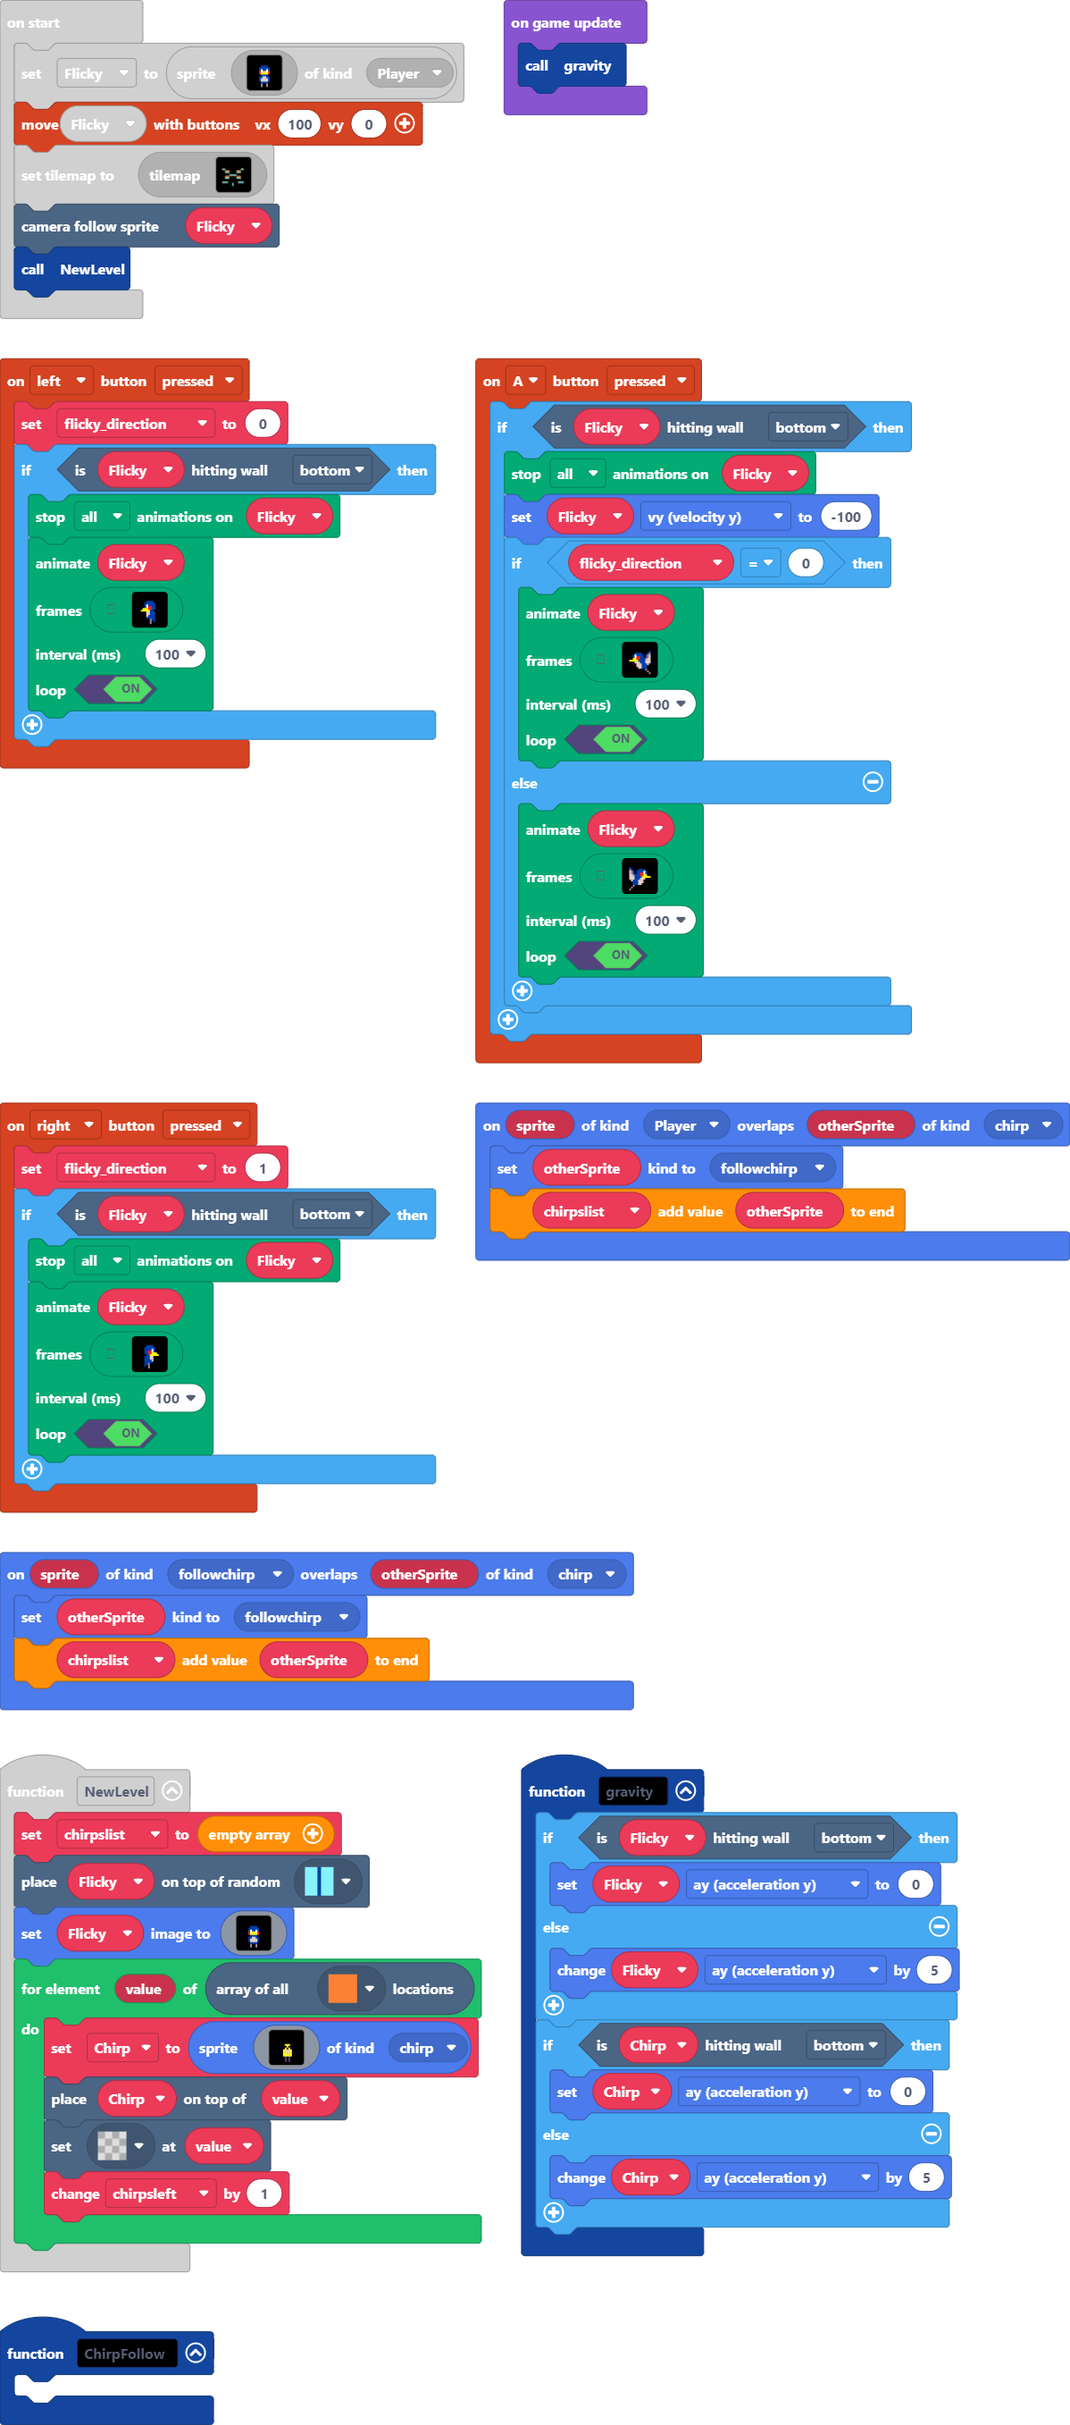
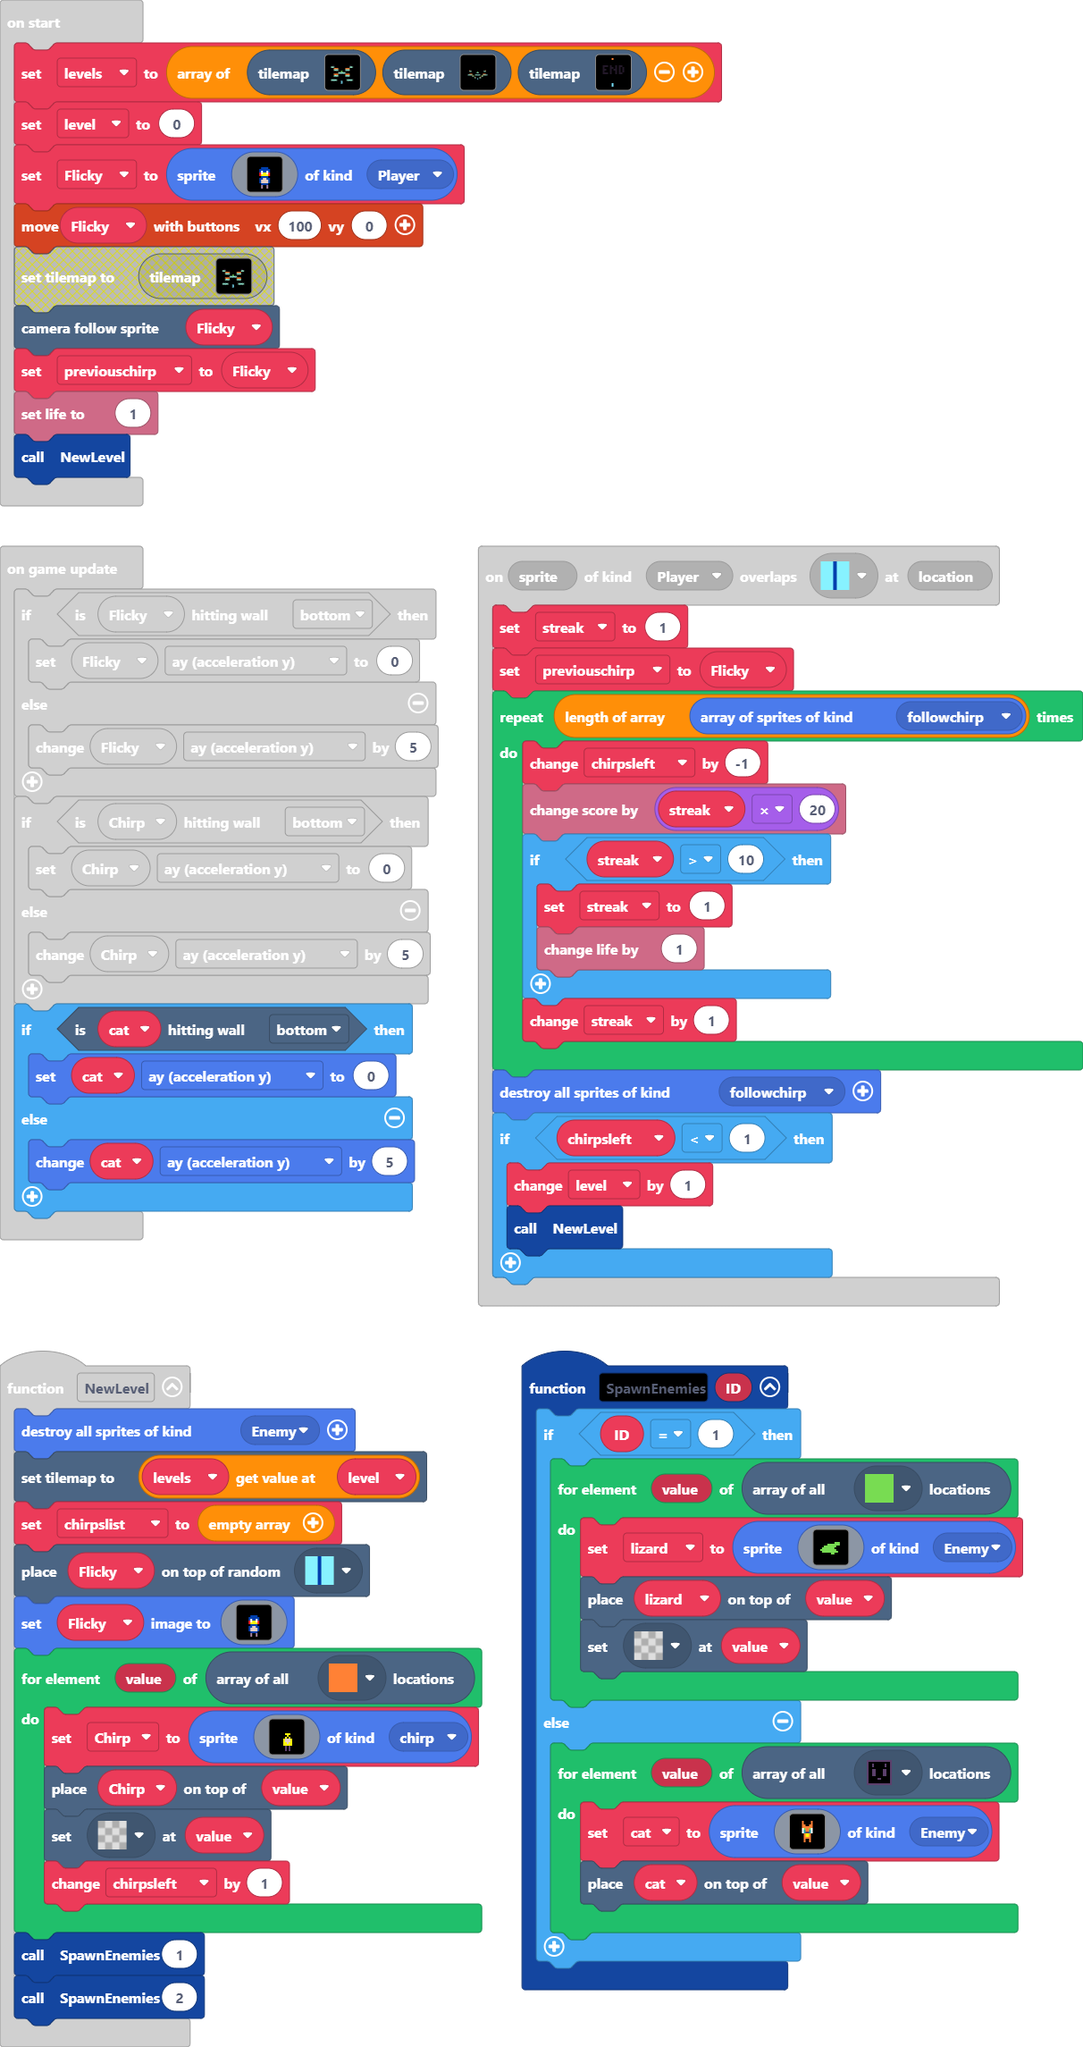
enemy spawns

diff --git a/tilemap.g.ts b/tilemap.g.ts
@@ -14,6 +14,8 @@ namespace myTiles {
     export const tile5 = image.ofBuffer(hex``);
     //% fixedInstance jres blockIdentity=images._tile
     export const tile6 = image.ofBuffer(hex``);
+    //% fixedInstance jres blockIdentity=images._tile
+    export const tile7 = image.ofBuffer(hex``);
 
     helpers._registerFactory("tilemap", function(name: string) {
         switch(helpers.stringTrim(name)) {
@@ -36,8 +38,107 @@ namespace myTiles {
 . . . . . . . . . . . . . . . . 
 . . . . . . . . . . . . . . . . 
 `, [myTiles.transparency16], TileScale.Sixteen);
+            case "level4":
+            case "level4":return tiles.createTilemap(hex`1000100000000000000000000000000000000000000000000000000000000000000000000000000000000000000000000000000000000000000000000000000000000000000000000000000000000000000000000000000000000000000000000000000000000000000000000000000000000000000000000000000000000000000000000000000000000000000000000000000000000000000000000000000000000000000000000000000000000000000000000000000000000000000000000000000000000000000000000000000000000000000000000000000000000000000000000000000000000000000000000000000000000000000000000000000000000000`, img`
+. . . . . . . . . . . . . . . . 
+. . . . . . . . . . . . . . . . 
+. . . . . . . . . . . . . . . . 
+. . . . . . . . . . . . . . . . 
+. . . . . . . . . . . . . . . . 
+. . . . . . . . . . . . . . . . 
+. . . . . . . . . . . . . . . . 
+. . . . . . . . . . . . . . . . 
+. . . . . . . . . . . . . . . . 
+. . . . . . . . . . . . . . . . 
+. . . . . . . . . . . . . . . . 
+. . . . . . . . . . . . . . . . 
+. . . . . . . . . . . . . . . . 
+. . . . . . . . . . . . . . . . 
+. . . . . . . . . . . . . . . . 
+. . . . . . . . . . . . . . . . 
+`, [myTiles.transparency16], TileScale.Sixteen);
+            case "level5":
+            case "level5":return tiles.createTilemap(hex`1000100000000000000000000000000000000000000000000000000000000000000000000000000000000000000000000000000000000000000000000000000000000000000000000000000000000000000000000000000000000000000000000000000000000000000000000000000000000000000000000000000000000000000000000000000000000000000000000000000000000000000000000000000000000000000000000000000000000000000000000000000000000000000000000000000000000000000000000000000000000000000000000000000000000000000000000000000000000000000000000000000000000000000000000000000000000000`, img`
+. . . . . . . . . . . . . . . . 
+. . . . . . . . . . . . . . . . 
+. . . . . . . . . . . . . . . . 
+. . . . . . . . . . . . . . . . 
+. . . . . . . . . . . . . . . . 
+. . . . . . . . . . . . . . . . 
+. . . . . . . . . . . . . . . . 
+. . . . . . . . . . . . . . . . 
+. . . . . . . . . . . . . . . . 
+. . . . . . . . . . . . . . . . 
+. . . . . . . . . . . . . . . . 
+. . . . . . . . . . . . . . . . 
+. . . . . . . . . . . . . . . . 
+. . . . . . . . . . . . . . . . 
+. . . . . . . . . . . . . . . . 
+. . . . . . . . . . . . . . . . 
+`, [myTiles.transparency16], TileScale.Sixteen);
+            case "level6":
+            case "level6":return tiles.createTilemap(hex`1000100000000000000000000000000000000000000000000000000000000000000000000000000000000000000000000000000000000000000000000000000000000000000000000000000000000000000000000000000000000000000000000000000000000000000000000000000000000000000000000000000000000000000000000000000000000000000000000000000000000000000000000000000000000000000000000000000000000000000000000000000000000000000000000000000000000000000000000000000000000000000000000000000000000000000000000000000000000000000000000000000000000000000000000000000000000000`, img`
+. . . . . . . . . . . . . . . . 
+. . . . . . . . . . . . . . . . 
+. . . . . . . . . . . . . . . . 
+. . . . . . . . . . . . . . . . 
+. . . . . . . . . . . . . . . . 
+. . . . . . . . . . . . . . . . 
+. . . . . . . . . . . . . . . . 
+. . . . . . . . . . . . . . . . 
+. . . . . . . . . . . . . . . . 
+. . . . . . . . . . . . . . . . 
+. . . . . . . . . . . . . . . . 
+. . . . . . . . . . . . . . . . 
+. . . . . . . . . . . . . . . . 
+. . . . . . . . . . . . . . . . 
+. . . . . . . . . . . . . . . . 
+. . . . . . . . . . . . . . . . 
+`, [myTiles.transparency16], TileScale.Sixteen);
+            case "level3":
+            case "level3":return tiles.createTilemap(hex`280014000000000000000000000000000000000000000000000000000000000000000000000000000000000000000000000000000000000000000000000000000000000000000000000000000000000000000000000000000000000000000000000000000000000000000000000000000000000000000000000000000000000000000000000000000000000000000000000000000000000000000000000000000000000000000000000000000000000000000000000000000000000000000000000000000000000000000000000000000000000000000000000000000000000000000000000000000000000000000000000000000000000000000000000000000000000000000000000000000000000000000000000000000000000000000000000000000500060000000000000000000000000000000000060005000000000000000000000000000000000001020300000000000000000000000000000000000102030000000000000000000000000000000000000000000000000000000007000000000000000000000000000000000000000000000000000000000000000000000000000001020300000000000000000000000000000000000000000000000000000000000000000000000000000000000000000000000000000000000000000000000000000000000600050505050000000000000006000000000000000505050500060000000000000000000000000001020202020300000000010202020202030000000001020202020300000000000000000000000000000000000000050700000000000000000000000705000000000000000000000000000000000000000000000000000103000000000000000000000001030000000000000000000000000000000000000000000000000000000005000000000000000500000000000000000000000000000000000000000000000000000000000000010300000000000103000000000000000000000000000000000000000000000000000000000000000000000004000000000000000000000000000000000000000000000000000000000000000000000000000000040000000000000000000000000000000000000000`, img`
+........................................
+........................................
+........................................
+........................................
+........................................
+........................................
+........................................
+........................................
+........222.................222.........
+........................................
+..................222...................
+........................................
+........................................
+......222222....2222222....222222.......
+........................................
+............22...........22.............
+........................................
+...............22.....22................
+........................................
+........................................
+`, [myTiles.transparency16,myTiles.tile1,myTiles.tile2,myTiles.tile3,myTiles.tile4,myTiles.tile5,myTiles.tile6,myTiles.tile7], TileScale.Sixteen);
+            case "end":
+            case "level7":return tiles.createTilemap(hex`1000100000000000000000020000000000000000000000000000000000000000000000000000000000000000000000000000000000000000000000000000000000000000000003030300030000030003030000000000030000000303000300030003000000000303000003000303000300030000000003000000030000030003000300000000030303000300000300030300000000000000000000000000000000000000000000000000000000000000000000000000000000000000000000000000000000000000000000000000000000000000000000000000000000000000000000000000000000000001000000000000000000000000000000010000000000000000`, img`
+. . . . . . . . . . . . . . . . 
+. . . . . . . 2 . . . . . . . . 
+. . . . . . . . . . . . . . . . 
+. . . . . . . . . . . . . . . . 
+. . . . . . . . . . . . . . . . 
+. . . . . . . . . . . . . . . . 
+. . . . . . . . . . . . . . . . 
+. . . . . . . . . . . . . . . . 
+. . . . . . . . . . . . . . . . 
+. . . . . . . . . . . . . . . . 
+. . . . . . . . . . . . . . . . 
+. . . . . . . . . . . . . . . . 
+. . . . . . . . . . . . . . . . 
+. . . . . . . . . . . . . . . . 
+. . . . . . . . . . . . . . . . 
+. . . . . . . . . . . . . . . . 
+`, [myTiles.transparency16,myTiles.tile4,myTiles.tile5,myTiles.tile6], TileScale.Sixteen);
             case "level1":
-            case "level1":return tiles.createTilemap(hex`140010000000000000000000000000000000000000000000000000000000000000000000000000000000000000000000000000000000000000000000000000000000000600000000000000000000000600000000000001030000000000000000000000010300000000000000050505000000000005050500000000000000000001020300000000000102030000000000000000000000000000000000000000000000000000000000000000010202020300000000000000000000000005050500000000000505050000000000000000000102030000000000010203000000000000000000000000000000000000000000000000000000000000000000000000000000000000000000000001020203000000000000000102020300000000000000000000000004000000000000000000000000000000000000000400000000000000000000`, img`
+            case "level1":return tiles.createTilemap(hex`140010000000000000000000000000000000000000000000000000000000000000000000000000000000000000000000000000000000000000000000000000000000000600000000000000000000000600000000000001030000000000000000000000010300000000000000050505000000000005050500000000000000000001020300000000000102030000000000000000000000000000070000000000000000000000000000000000010202020300000000000000000000000005050500000000000505050000000000000000000102030000000000010203000000000000000000000000000000000000000000000000000000000000000000000000000000000000000000000001020203000000000000000102020300000000000000000000000004000000000000000000000000000000000000000400000000000000000000`, img`
 ....................
 ....................
 ....................
@@ -54,30 +155,26 @@ namespace myTiles {
 ..2222.......2222...
 ....................
 ....................
-`, [myTiles.transparency16,myTiles.tile1,myTiles.tile2,myTiles.tile3,myTiles.tile4,myTiles.tile5,myTiles.tile6], TileScale.Sixteen);
-            case "level3":
-            case "level3":return tiles.createTilemap(hex`280014000000000000000000000000000000000000000000000000000000000000000000000000000000000000000000000000000000000000000000000000000000000000000000000000000000000000000000000000000000000000000000000000000000000000000000000000000000000000000000000000000000000000000000000000000000000000000000000000000000000000000000000000000000000000000000000000000000000000000000000000000000000000000000000000000000000000000000000000000000000000000000000000000000000000000000000000000000000000000000000000000000000000000000000000000000000000000000000000000000000000000000000000000000000000000000000000000500060000000000000000000000000000000000060005000000000000000000000000000000000001020300000000000000000000000000000000000102030000000000000000000000000000000000000000000000000000000000000000000000000000000000000000000000000000000000000000000000000000000000000001020300000000000000000000000000000000000000000000000000000000000000000000000000000000000000000000000000000000000000000000000000000000000600050505050000000000000006000000000000000505050500060000000000000000000000000001020202020300000000010202020202030000000001020202020300000000000000000000000000000000000000050000000000000000000000000005000000000000000000000000000000000000000000000000000103000000000000000000000001030000000000000000000000000000000000000000000000000000000005000000000000000500000000000000000000000000000000000000000000000000000000000000010300000000000103000000000000000000000000000000000000000000000000000000000000000000000004000000000000000000000000000000000000000000000000000000000000000000000000000000040000000000000000000000000000000000000000`, img`
-........................................
-........................................
-........................................
-........................................
-........................................
-........................................
-........................................
-........................................
-........................................
-........................................
-........................................
-........................................
-........................................
-........................................
-........................................
-........................................
-........................................
-........................................
-........................................
-........................................
-`, [myTiles.transparency16,myTiles.tile1,myTiles.tile2,myTiles.tile3,myTiles.tile4,myTiles.tile5,myTiles.tile6], TileScale.Sixteen);
+`, [myTiles.transparency16,myTiles.tile1,myTiles.tile2,myTiles.tile3,myTiles.tile4,myTiles.tile5,myTiles.tile6,myTiles.tile7], TileScale.Sixteen);
+            case "level8":
+            case "level8":return tiles.createTilemap(hex`1000100000000000000000000000000000000000000000000000000000000000000000000000000000000000000000000000000000000000000000000000000000000000000000000000000000000000000000000000000000000000000000000000000000000000000000000000000000000000000000000000000000000000000000000000000000000000000000000000000000000000000000000000000000000000000000000000000000000000000000000000000000000000000000000000000000000000000000000000000000000000000000000000000000000000000000000000000000000000000000000000000000000000000000000000000000000000`, img`
+. . . . . . . . . . . . . . . . 
+. . . . . . . . . . . . . . . . 
+. . . . . . . . . . . . . . . . 
+. . . . . . . . . . . . . . . . 
+. . . . . . . . . . . . . . . . 
+. . . . . . . . . . . . . . . . 
+. . . . . . . . . . . . . . . . 
+. . . . . . . . . . . . . . . . 
+. . . . . . . . . . . . . . . . 
+. . . . . . . . . . . . . . . . 
+. . . . . . . . . . . . . . . . 
+. . . . . . . . . . . . . . . . 
+. . . . . . . . . . . . . . . . 
+. . . . . . . . . . . . . . . . 
+. . . . . . . . . . . . . . . . 
+. . . . . . . . . . . . . . . . 
+`, [myTiles.transparency16], TileScale.Sixteen);
         }
         return null;
     })
@@ -97,6 +194,8 @@ namespace myTiles {
             case "tile5":return tile5;
             case "enem_spawn":
             case "tile6":return tile6;
+            case "lizordspawn":
+            case "tile7":return tile7;
         }
         return null;
     })

diff --git a/main.ts b/main.ts
@@ -3,11 +3,37 @@ namespace SpriteKind {
     export const followchirp = SpriteKind.create()
 }
 scene.onOverlapTile(SpriteKind.Player, assets.tile`doorsmiddle`, function (sprite, location) {
+    streak = 1
     previouschirp = Flicky
-    chirpsleft += sprites.allOfKind(SpriteKind.followchirp).length * -1
-    info.changeScoreBy(sprites.allOfKind(SpriteKind.followchirp).length * 100)
+    for (let index = 0; index < sprites.allOfKind(SpriteKind.followchirp).length; index++) {
+        chirpsleft += -1
+        info.changeScoreBy(streak * 20)
+        if (streak > 10) {
+            streak = 1
+            info.changeLifeBy(1)
+        }
+        streak += 1
+    }
     sprites.destroyAllSpritesOfKind(SpriteKind.followchirp)
+    if (chirpsleft < 1) {
+        level += 1
+        NewLevel()
+    }
 })
+function SpawnEnemies (ID: number) {
+    if (ID == 1) {
+        for (let value of tiles.getTilesByType(assets.tile`lizordspawn`)) {
+            lizard = sprites.create(assets.image`lizard_placeholder`, SpriteKind.Enemy)
+            tiles.placeOnTile(lizard, value)
+            tiles.setTileAt(value, assets.tile`transparency16`)
+        }
+    } else {
+        for (let value of tiles.getTilesByType(assets.tile`enem_spawn`)) {
+            cat = sprites.create(assets.image`cat_enemy_front`, SpriteKind.Enemy)
+            tiles.placeOnTile(cat, value)
+        }
+    }
+}
 controller.A.onEvent(ControllerButtonEvent.Pressed, function () {
     if (Flicky.isHittingTile(CollisionDirection.Bottom)) {
         animation.stopAnimation(animation.AnimationTypes.All, Flicky)
@@ -48,6 +74,8 @@ sprites.onOverlap(SpriteKind.Player, SpriteKind.chirp, function (sprite, otherSp
     previouschirp = otherSprite
 })
 function NewLevel () {
+    sprites.destroyAllSpritesOfKind(SpriteKind.Enemy)
+    tiles.setCurrentTilemap(levels[level])
     chirpslist = []
     tiles.placeOnRandomTile(Flicky, assets.tile`doorsmiddle`)
     Flicky.setImage(assets.image`flicky_front`)
@@ -57,6 +85,8 @@ function NewLevel () {
         tiles.setTileAt(value, assets.tile`transparency16`)
         chirpsleft += 1
     }
+    SpawnEnemies(1)
+    SpawnEnemies(2)
 }
 controller.right.onEvent(ControllerButtonEvent.Pressed, function () {
     flicky_direction = 1
@@ -79,14 +109,21 @@ sprites.onOverlap(SpriteKind.followchirp, SpriteKind.chirp, function (sprite, ot
 let Chirp: Sprite = null
 let chirpslist: Sprite[] = []
 let flicky_direction = 0
+let cat: Sprite = null
+let lizard: Sprite = null
 let chirpsleft = 0
+let streak = 0
 let previouschirp: Sprite = null
 let Flicky: Sprite = null
+let level = 0
+let levels: tiles.TileMapData[] = []
+levels = [tilemap`level1`, tilemap`level3`, tilemap`end`]
+level = 0
 Flicky = sprites.create(assets.image`flicky_front`, SpriteKind.Player)
 controller.moveSprite(Flicky, 100, 0)
-tiles.setCurrentTilemap(tilemap`level1`)
-scene.cameraFollowSprite(Flicky)
+info.setLife(1)
 NewLevel()
+scene.cameraFollowSprite(Flicky)
 previouschirp = Flicky
 game.onUpdate(function () {
     if (Flicky.isHittingTile(CollisionDirection.Bottom)) {
@@ -98,5 +135,10 @@ game.onUpdate(function () {
         Chirp.ay = 0
     } else {
         Chirp.ay += 5
+    }
+    if (cat.isHittingTile(CollisionDirection.Bottom)) {
+        cat.ay = 0
+    } else {
+        cat.ay += 5
     }
 })

diff --git a/images.g.ts b/images.g.ts
@@ -54,25 +54,6 @@ f 1 1 1 f 1 1 1 f 1 1 1 f
 1 f 1 f 1 f 1 f 1 f 1 f 1 
 1 f 1 1 1 f 1 1 1 f 1 1 1 
 `;
-            case "image9":
-            case "cat_enemy_front":return img`
-. . . . . . . . . . . . . . . . 
-. . . . . . . . . . . . . . . . 
-. . . . . 4 . . . . 4 . . . . . 
-. . . . . 4 . . . . 4 . . . . . 
-. . . . . 4 4 . . 4 4 . . . . . 
-. . . . . 4 4 4 4 4 4 . . . . . 
-. . . . . 1 7 4 4 7 1 . . . . . 
-. . . . . 1 6 4 4 6 1 . . . . . 
-. . . . . 1 6 c c 6 1 . . . . . 
-. . . . . . 4 5 5 4 . . . . . . 
-. . . . . . 4 5 5 4 . . . . . . 
-. . . . . . 4 4 4 4 . . . . . . 
-. . . . . . 4 . . 4 . . . . . . 
-. . . . . . 4 . . 4 . . . . . . 
-. . . . . . . . . . . . . . . . 
-. . . . . . . . . . . . . . . . 
-`;
             case "image1":
             case "flicky_front":return img`
 . . . . . . . . . . . . . . . . 
@@ -117,6 +98,44 @@ f f 1 f 1 1 1 f 1 1 1 f f
 f f 1 f 1 f 1 f 1 f 1 f f 
 f f 1 f 1 f 1 f 1 f 1 f f 
 f f 1 f 1 1 1 f 1 1 1 f f 
+`;
+            case "image10":
+            case "lizard_placeholder":return img`
+. . . . . . . . . . . . . . . . 
+. . . . . . . . . . . . . . . . 
+. . . . . . . . . . . . . . . . 
+. . . . . . . . . . . . . . . . 
+. . . . . . . . . . . . . . . . 
+. . . . . . . . . . 7 7 7 . . . 
+. . . . . . 7 7 7 7 7 7 7 . . . 
+. . . . 7 7 7 7 7 7 7 . . . . . 
+. . . 7 7 7 7 7 7 7 . . . . . . 
+. . 7 7 7 7 7 7 7 7 7 . . . . . 
+. . . 7 7 7 7 7 7 7 7 7 . . . . 
+. . . . . . . . 7 7 . . . . . . 
+. . . . . . . . . . . . . . . . 
+. . . . . . . . . . . . . . . . 
+. . . . . . . . . . . . . . . . 
+. . . . . . . . . . . . . . . . 
+`;
+            case "image9":
+            case "cat_enemy_front":return img`
+. . . . . . . . . . . . . . . . 
+. . . . . . . . . . . . . . . . 
+. . . . . 4 . . . . 4 . . . . . 
+. . . . . 4 . . . . 4 . . . . . 
+. . . . . 4 4 . . 4 4 . . . . . 
+. . . . . 4 4 4 4 4 4 . . . . . 
+. . . . . 1 7 4 4 7 1 . . . . . 
+. . . . . 1 6 4 4 6 1 . . . . . 
+. . . . . 1 6 c c 6 1 . . . . . 
+. . . . . . 4 5 5 4 . . . . . . 
+. . . . . . 4 5 5 4 . . . . . . 
+. . . . . . 4 4 4 4 . . . . . . 
+. . . . . . 4 . . 4 . . . . . . 
+. . . . . . 4 . . 4 . . . . . . 
+. . . . . . . . . . . . . . . . 
+. . . . . . . . . . . . . . . . 
 `;
         }
         return null;
